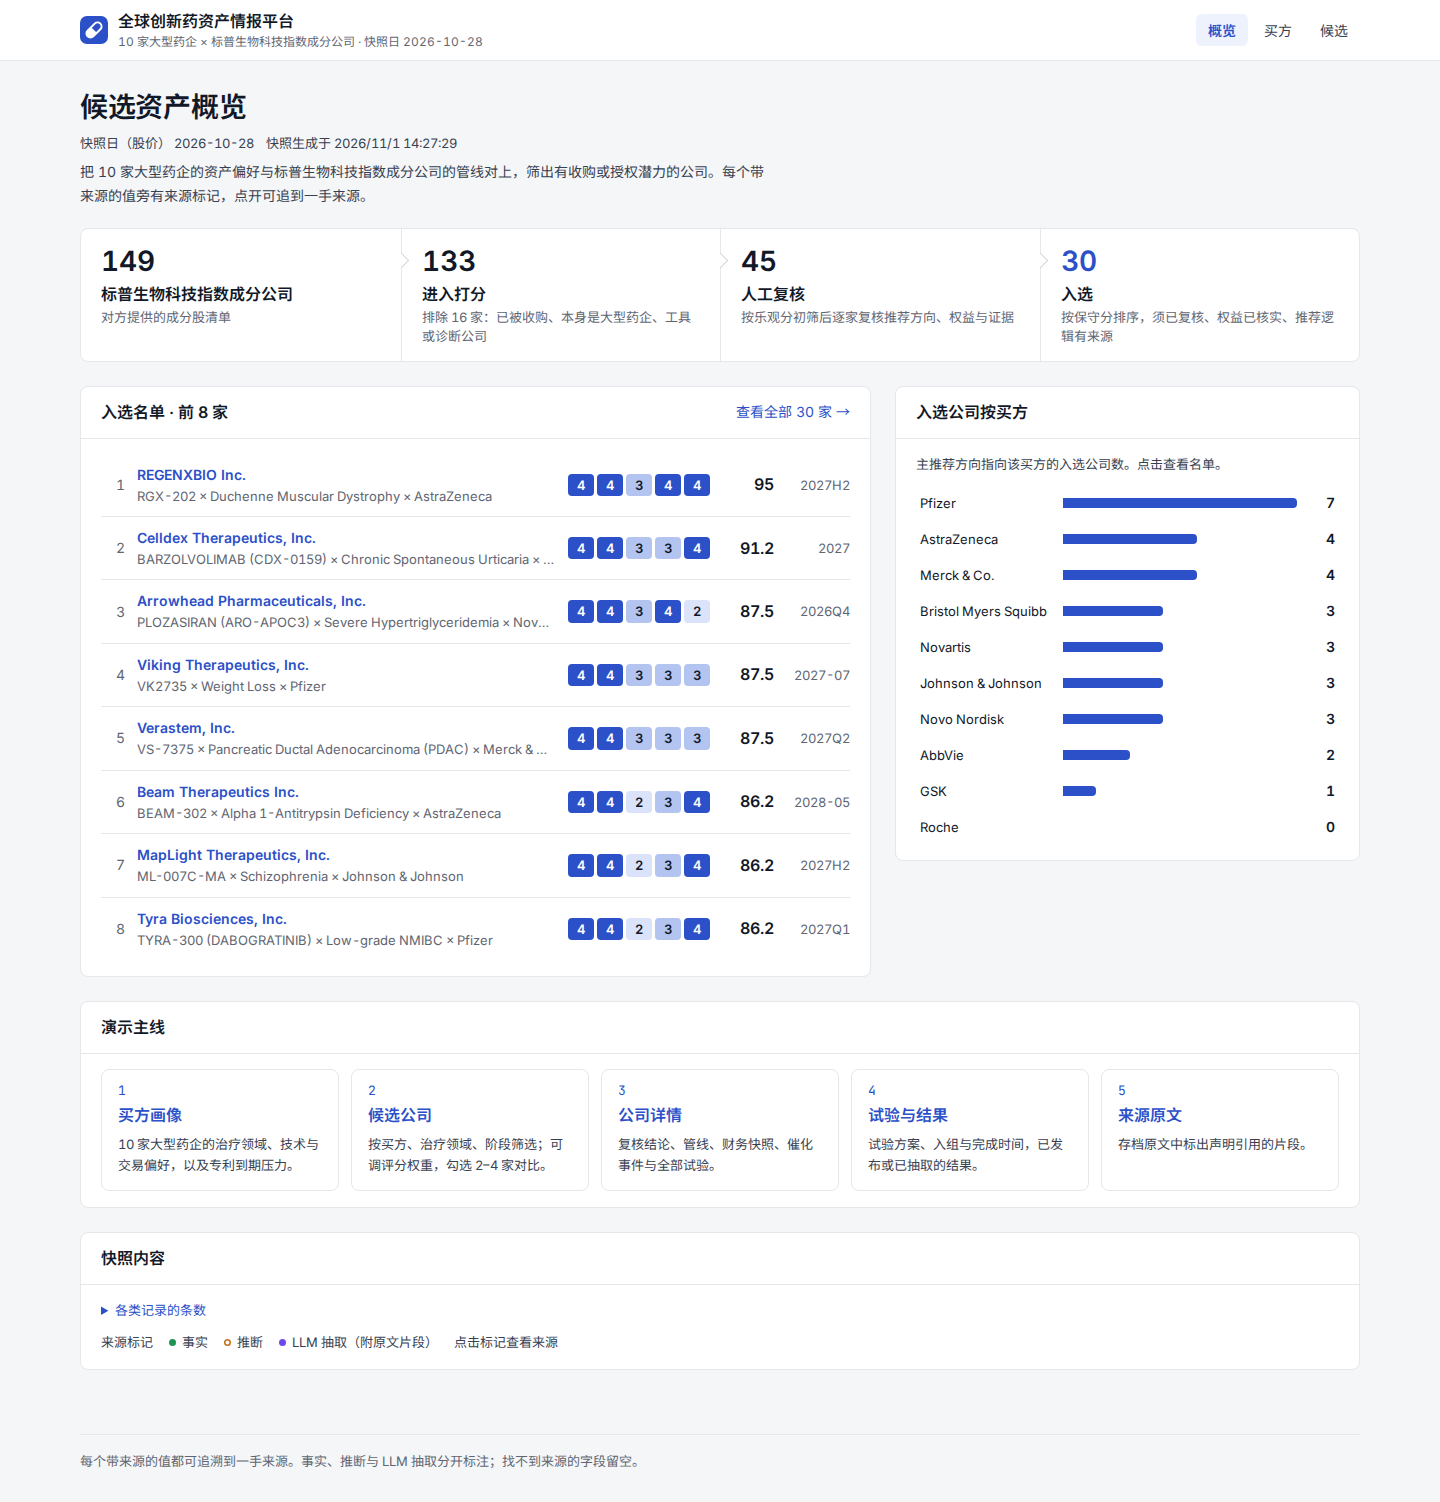
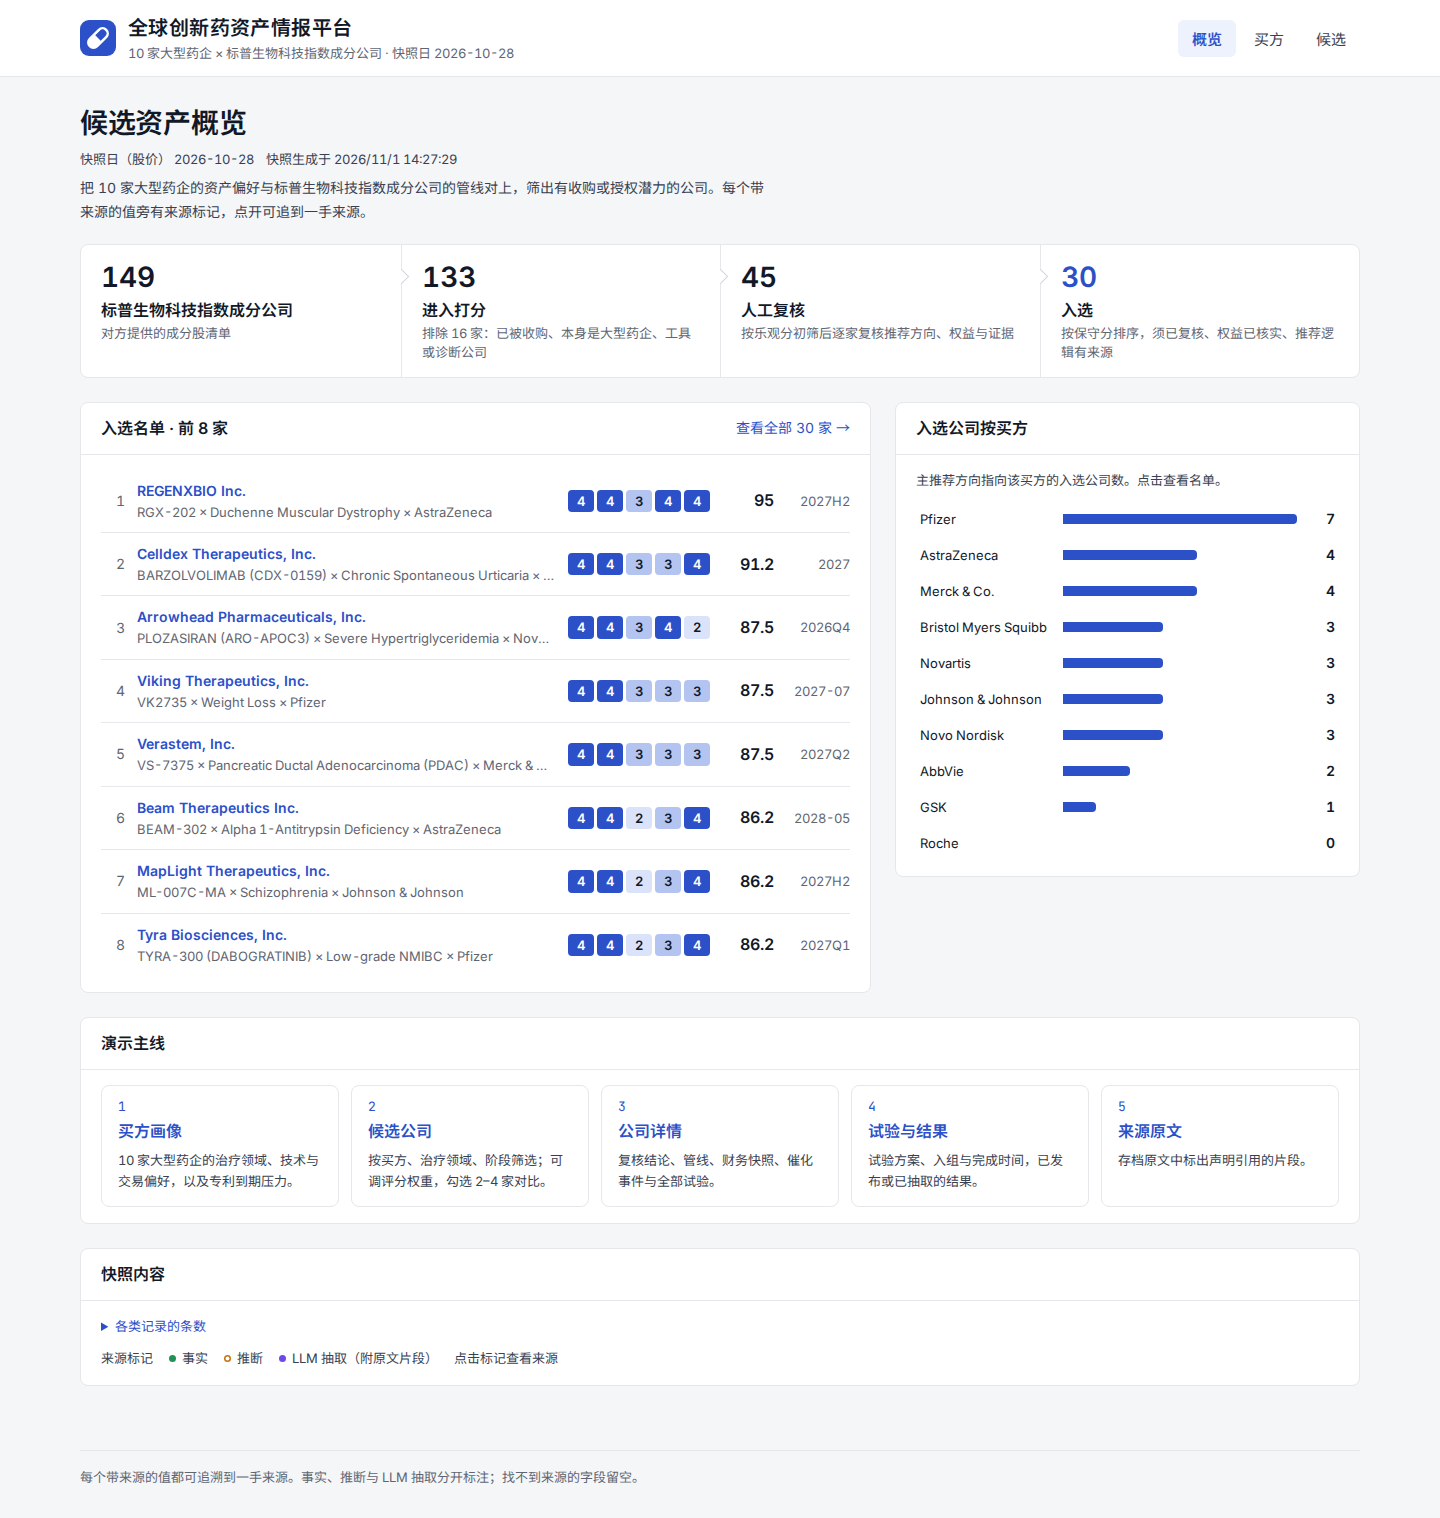
Larger masthead: brand title, mark and nav
Claude-Session: https://claude.ai/code/session_01HkPvGRTAerm7dKeWUgGh96

diff --git a/web/src/index.css b/web/src/index.css
@@ -98,13 +98,13 @@ strong {
   justify-content: space-between;
   gap: 8px 32px;
   flex-wrap: wrap;
-  min-height: 60px;
+  min-height: 76px;
 }
 
 .brand {
   display: flex;
   align-items: center;
-  gap: 10px;
+  gap: 12px;
   color: var(--ink);
   text-decoration: none;
   min-width: 0;
@@ -112,22 +112,25 @@ strong {
 
 .brand-mark {
   flex: none;
+  width: 36px;
+  height: 36px;
 }
 
 .brand-text {
   display: grid;
-  gap: 1px;
+  gap: 2px;
   min-width: 0;
 }
 
 .brand-name {
   font-weight: 600;
-  font-size: var(--fs-title);
+  font-size: 20px;
   line-height: 1.3;
+  letter-spacing: 0.02em;
 }
 
 .brand-sub {
-  font-size: 12px;
+  font-size: var(--fs-small);
   color: var(--muted);
 }
 
@@ -140,8 +143,8 @@ strong {
 .nav a {
   color: var(--ink-2);
   text-decoration: none;
-  font-size: 14px;
-  padding: 6px 12px;
+  font-size: 15px;
+  padding: 8px 14px;
   border-radius: 6px;
   transition: background-color 150ms ease-out, color 150ms ease-out;
 }
@@ -699,8 +702,20 @@ strong {
   .brand-sub {
     display: none;
   }
+  .brand-mark {
+    width: 30px;
+    height: 30px;
+  }
+  .brand-name {
+    font-size: 17px;
+  }
   .masthead-row {
+    min-height: 0;
     padding-block: 10px;
+  }
+  .nav a {
+    font-size: 14px;
+    padding: 6px 12px;
   }
   .field {
     grid-template-columns: minmax(0, 1fr);
